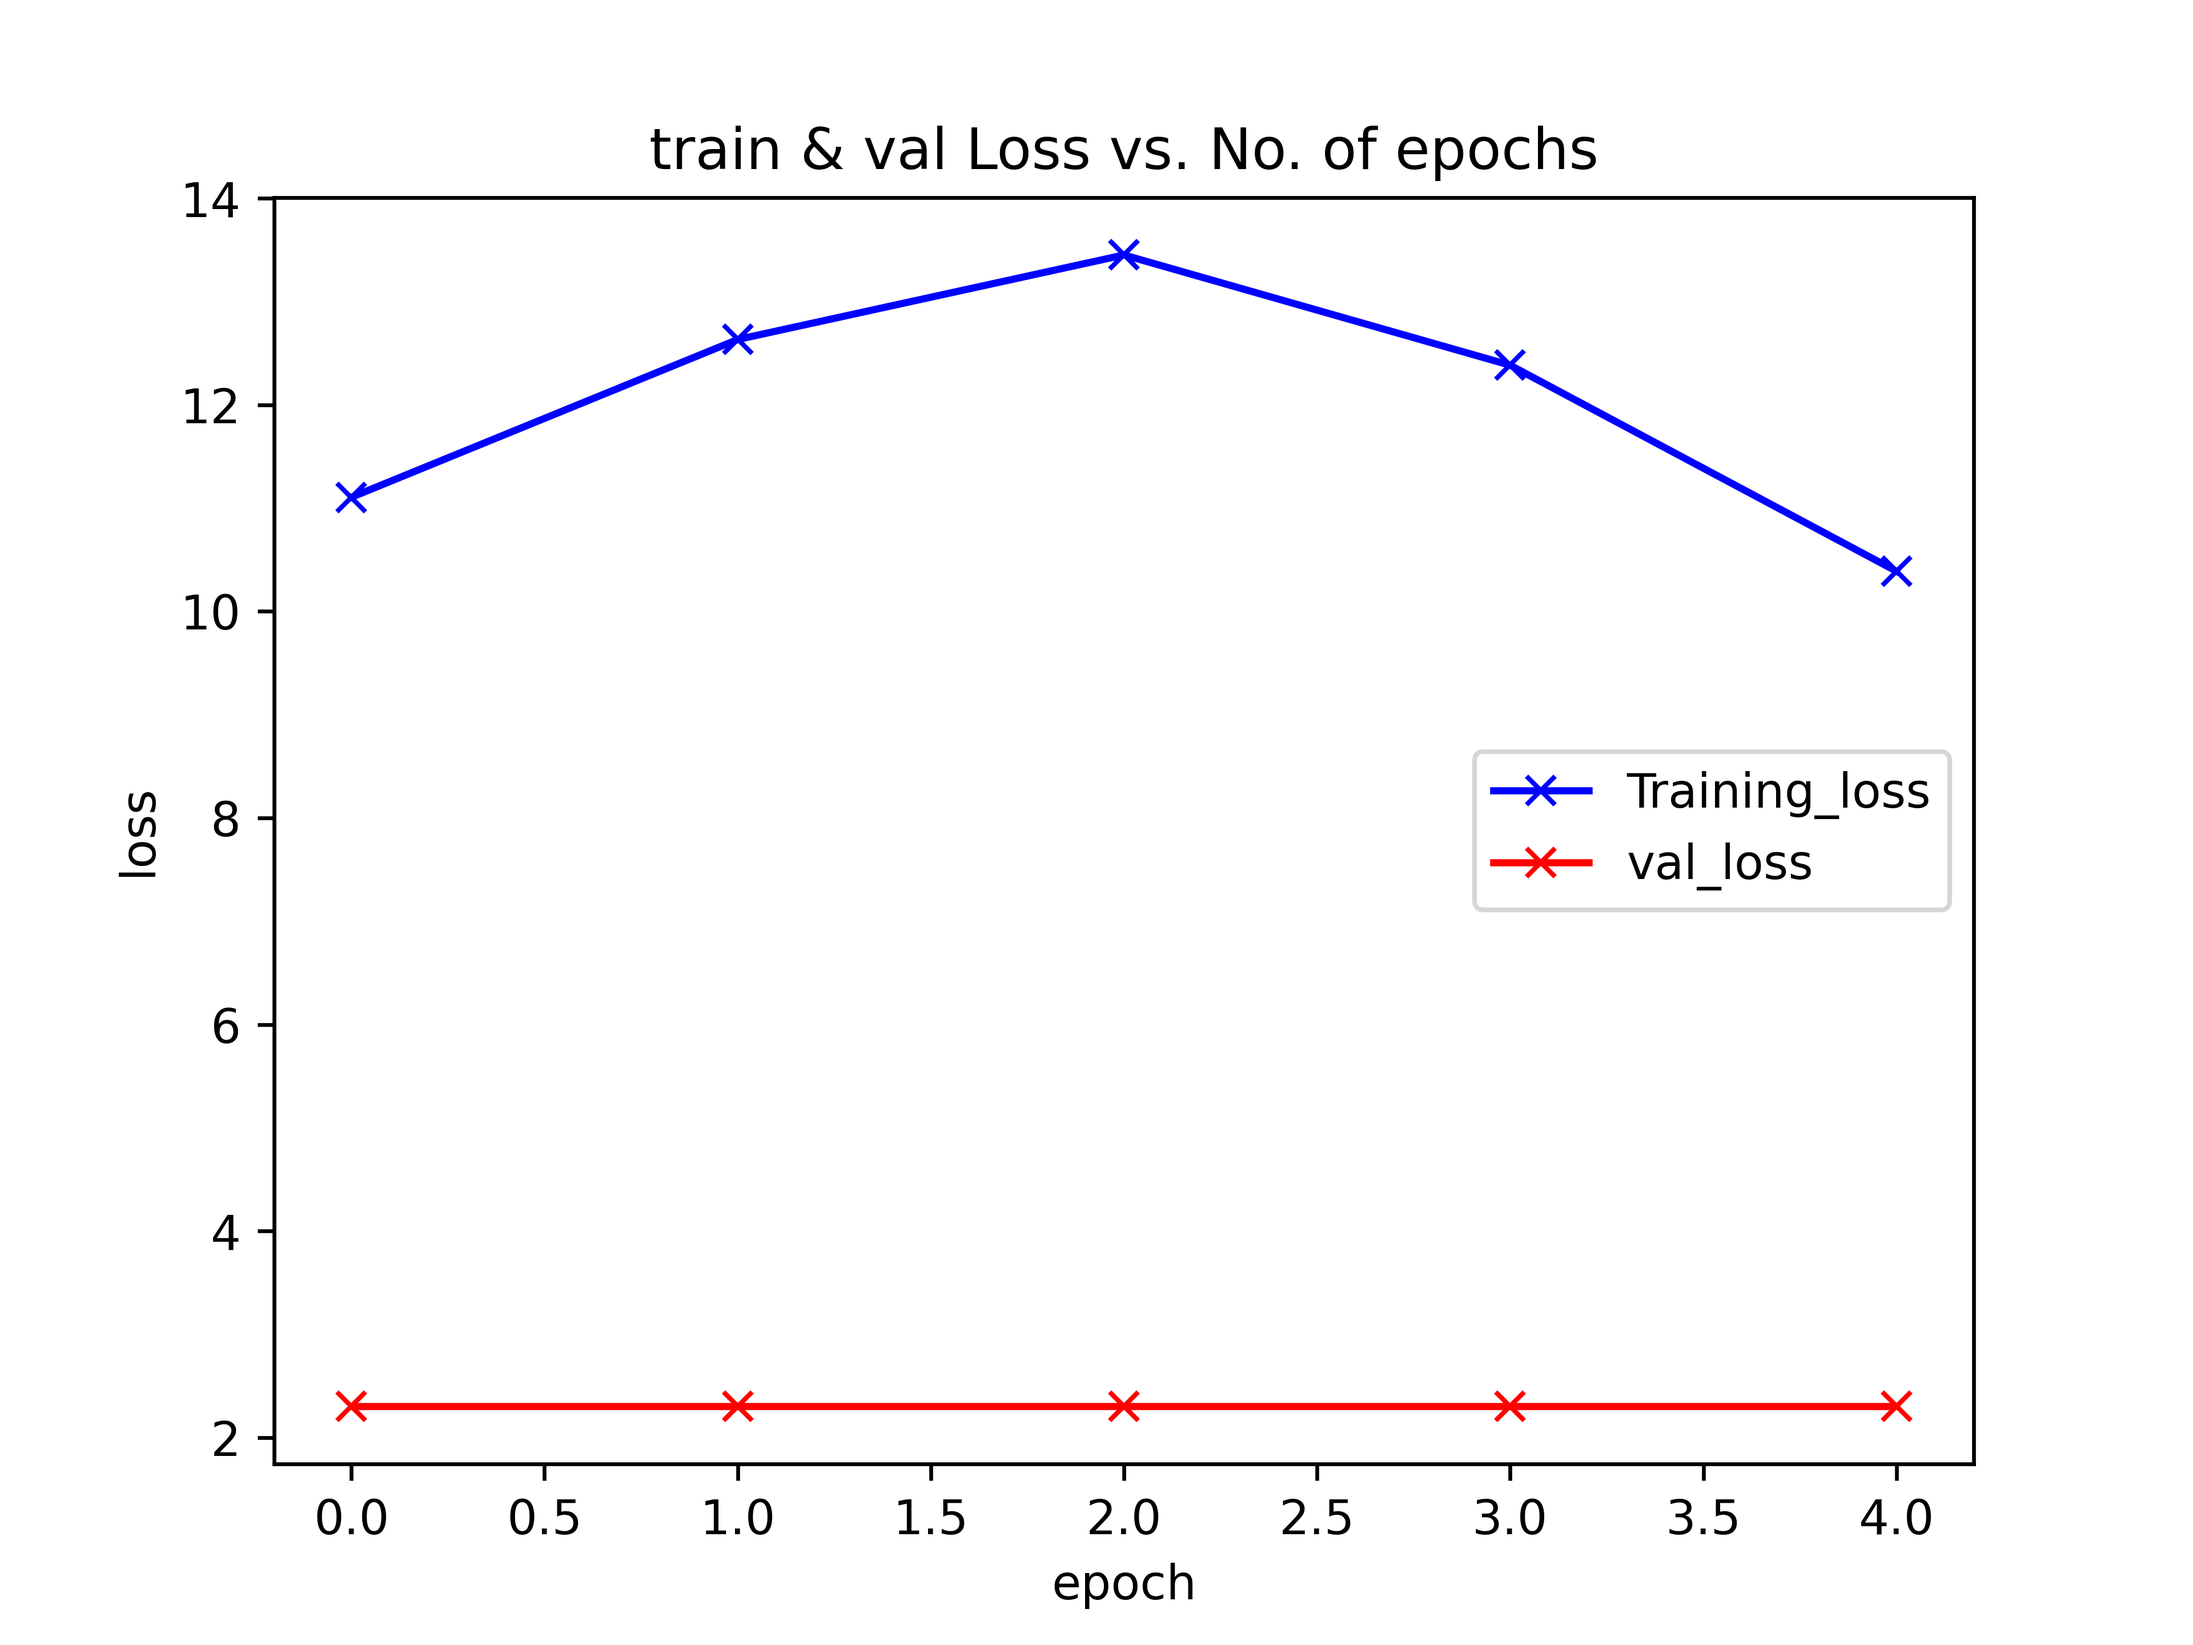
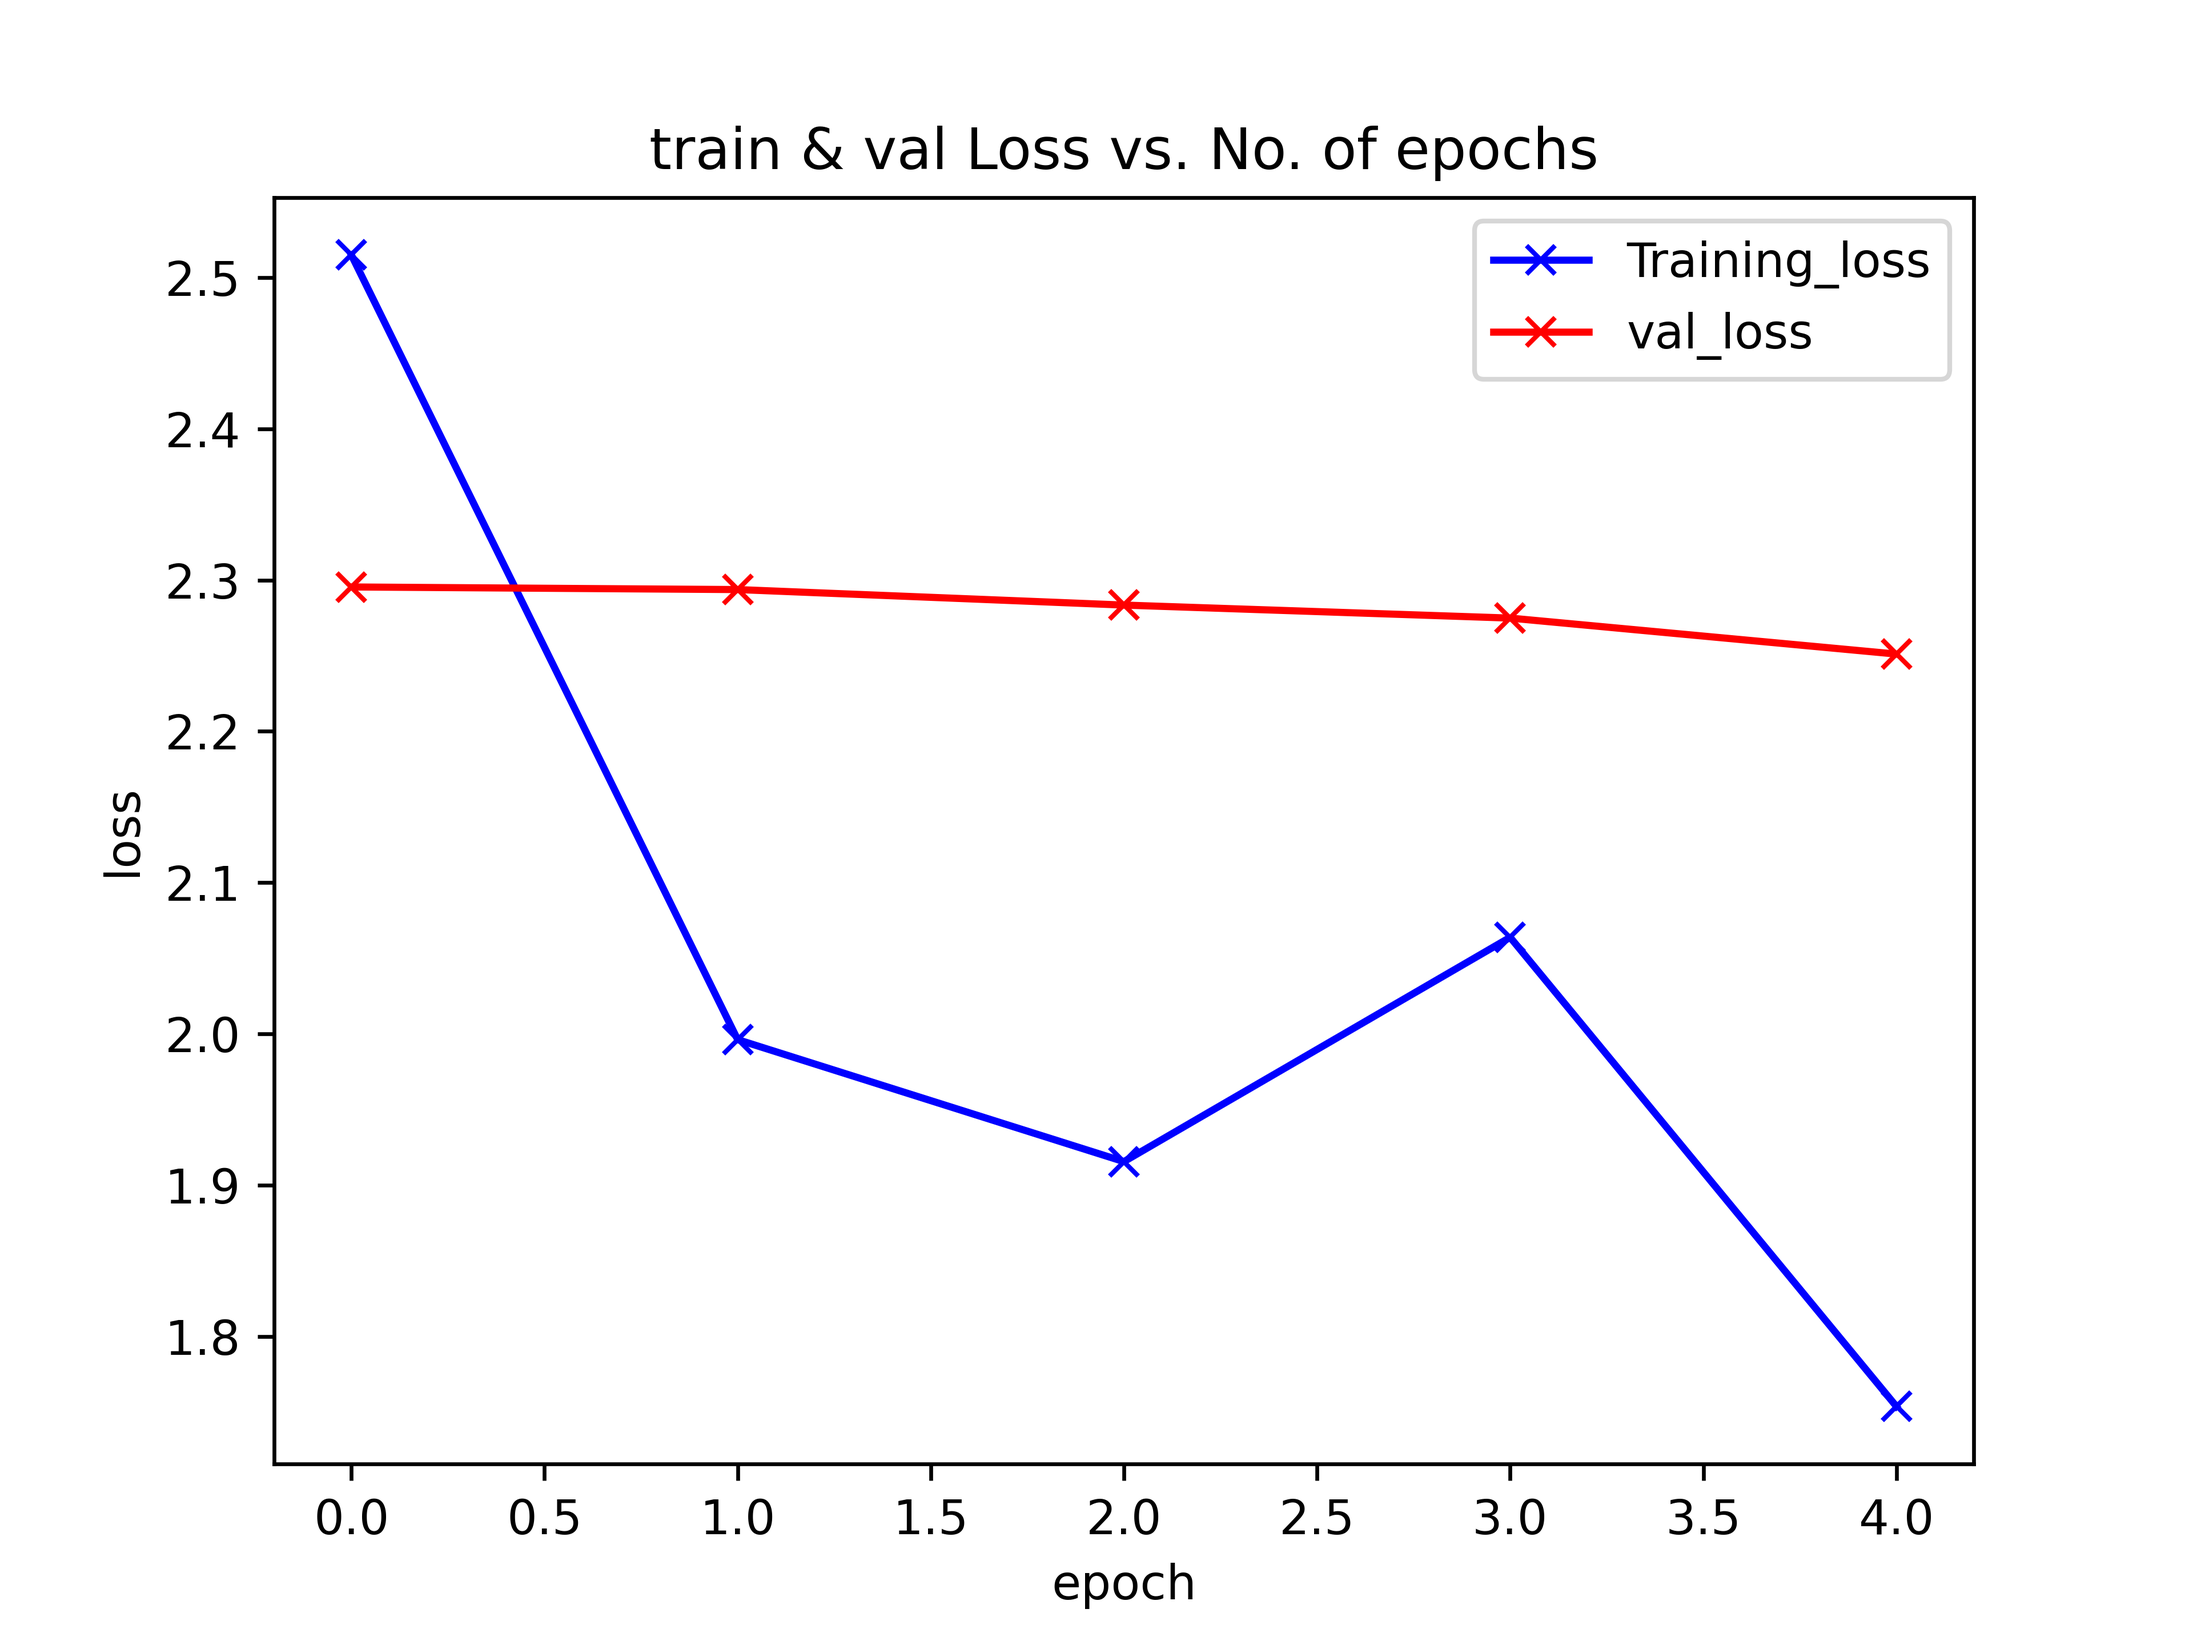
Fixed batchnum
added in a new parameter.

diff --git a/src/Sofmax/cnn_with_workers.py b/src/Sofmax/cnn_with_workers.py
@@ -17,7 +17,8 @@ def generateHyperparameters():
         return
     parameters = {"batch_size":[10000, "Number of items per batch"],"num_workers":[6, "Number of threads working on building batches"],"attemptLoad":[1, "0: do not use saves\n1:use saves"],
     "testlength":[1/4, "[0,1) percentage of training to test with"],"num_epochs":[5,"Number of times it trains on the whole trainset"],"learningRate":[0.01, "a modifier for training"],
-    "threshold":[0.25,"When to declare something to be unknown"], "optimizer":"Adam", "Unknowns":"refer to unknowns.CSV"}
+    "threshold":[0.25,"When to declare something to be unknown"], "optimizer":"Adam", "Unknowns":"refer to unknowns.CSV","CLASSES":[15,"Number of classes, do not change"], 
+    "Temperature":[1,"Energy OOD scaling parameter"]}
     param = pd.DataFrame.from_dict(parameters,orient="columns")
 
     param.to_csv("hyperParam.csv")
@@ -196,6 +197,7 @@ def main():
 
 
     def evaluate(model, validationset):
+        model.batchnum =0
         outputs = [model.validation_step(DeviceDataLoader(batch, device)) for batch in validationset]
         return model.validation_epoch_end(outputs)
 
@@ -310,6 +312,8 @@ def main():
             file = open("Saves/phase","r")
             phase = file.read()
             file.close()
+            if phase == "":
+                phase = "0"
             return int(phase),epochFound
         return -1, -1
 

diff --git a/src/Sofmax/EndLayer.py b/src/Sofmax/EndLayer.py
@@ -1,6 +1,7 @@
 import torch
 import numpy as np
 import torch.nn.functional as F
+import pandas as pd
 
 #three lines from https://xxx-cook-book.gitbooks.io/python-cook-book/content/Import/import-from-parent-folder.html
 import os
@@ -96,7 +97,12 @@ class EndLayers():
         return torch.softmax(percentages, dim=1)
 
     
-    def setArgs(self, classes=15, weibullThreshold=0.9, weibullTail=20, weibullAlpha=3, score="energy", m_in=-1, m_out=0, Temp=1):
+    def setArgs(self, classes=None, weibullThreshold=0.9, weibullTail=20, weibullAlpha=3, score="energy", m_in=-1, m_out=0, temp=None):
+        param = pd.read_csv("hyperParam.csv")
+        if temp is None:
+            temp = float(param["Temperature"][0])
+        if classes is None:
+            classes = int(param["CLASSES"][0])
         class argsc():
             def __init__(self):
                 #OpenMax
@@ -108,7 +114,7 @@ class EndLayers():
                 self.score = score
                 self.m_in=m_in
                 self.m_out = m_out
-                self.T = Temp
+                self.T = temp
         args = argsc()
         
         self.args = args
